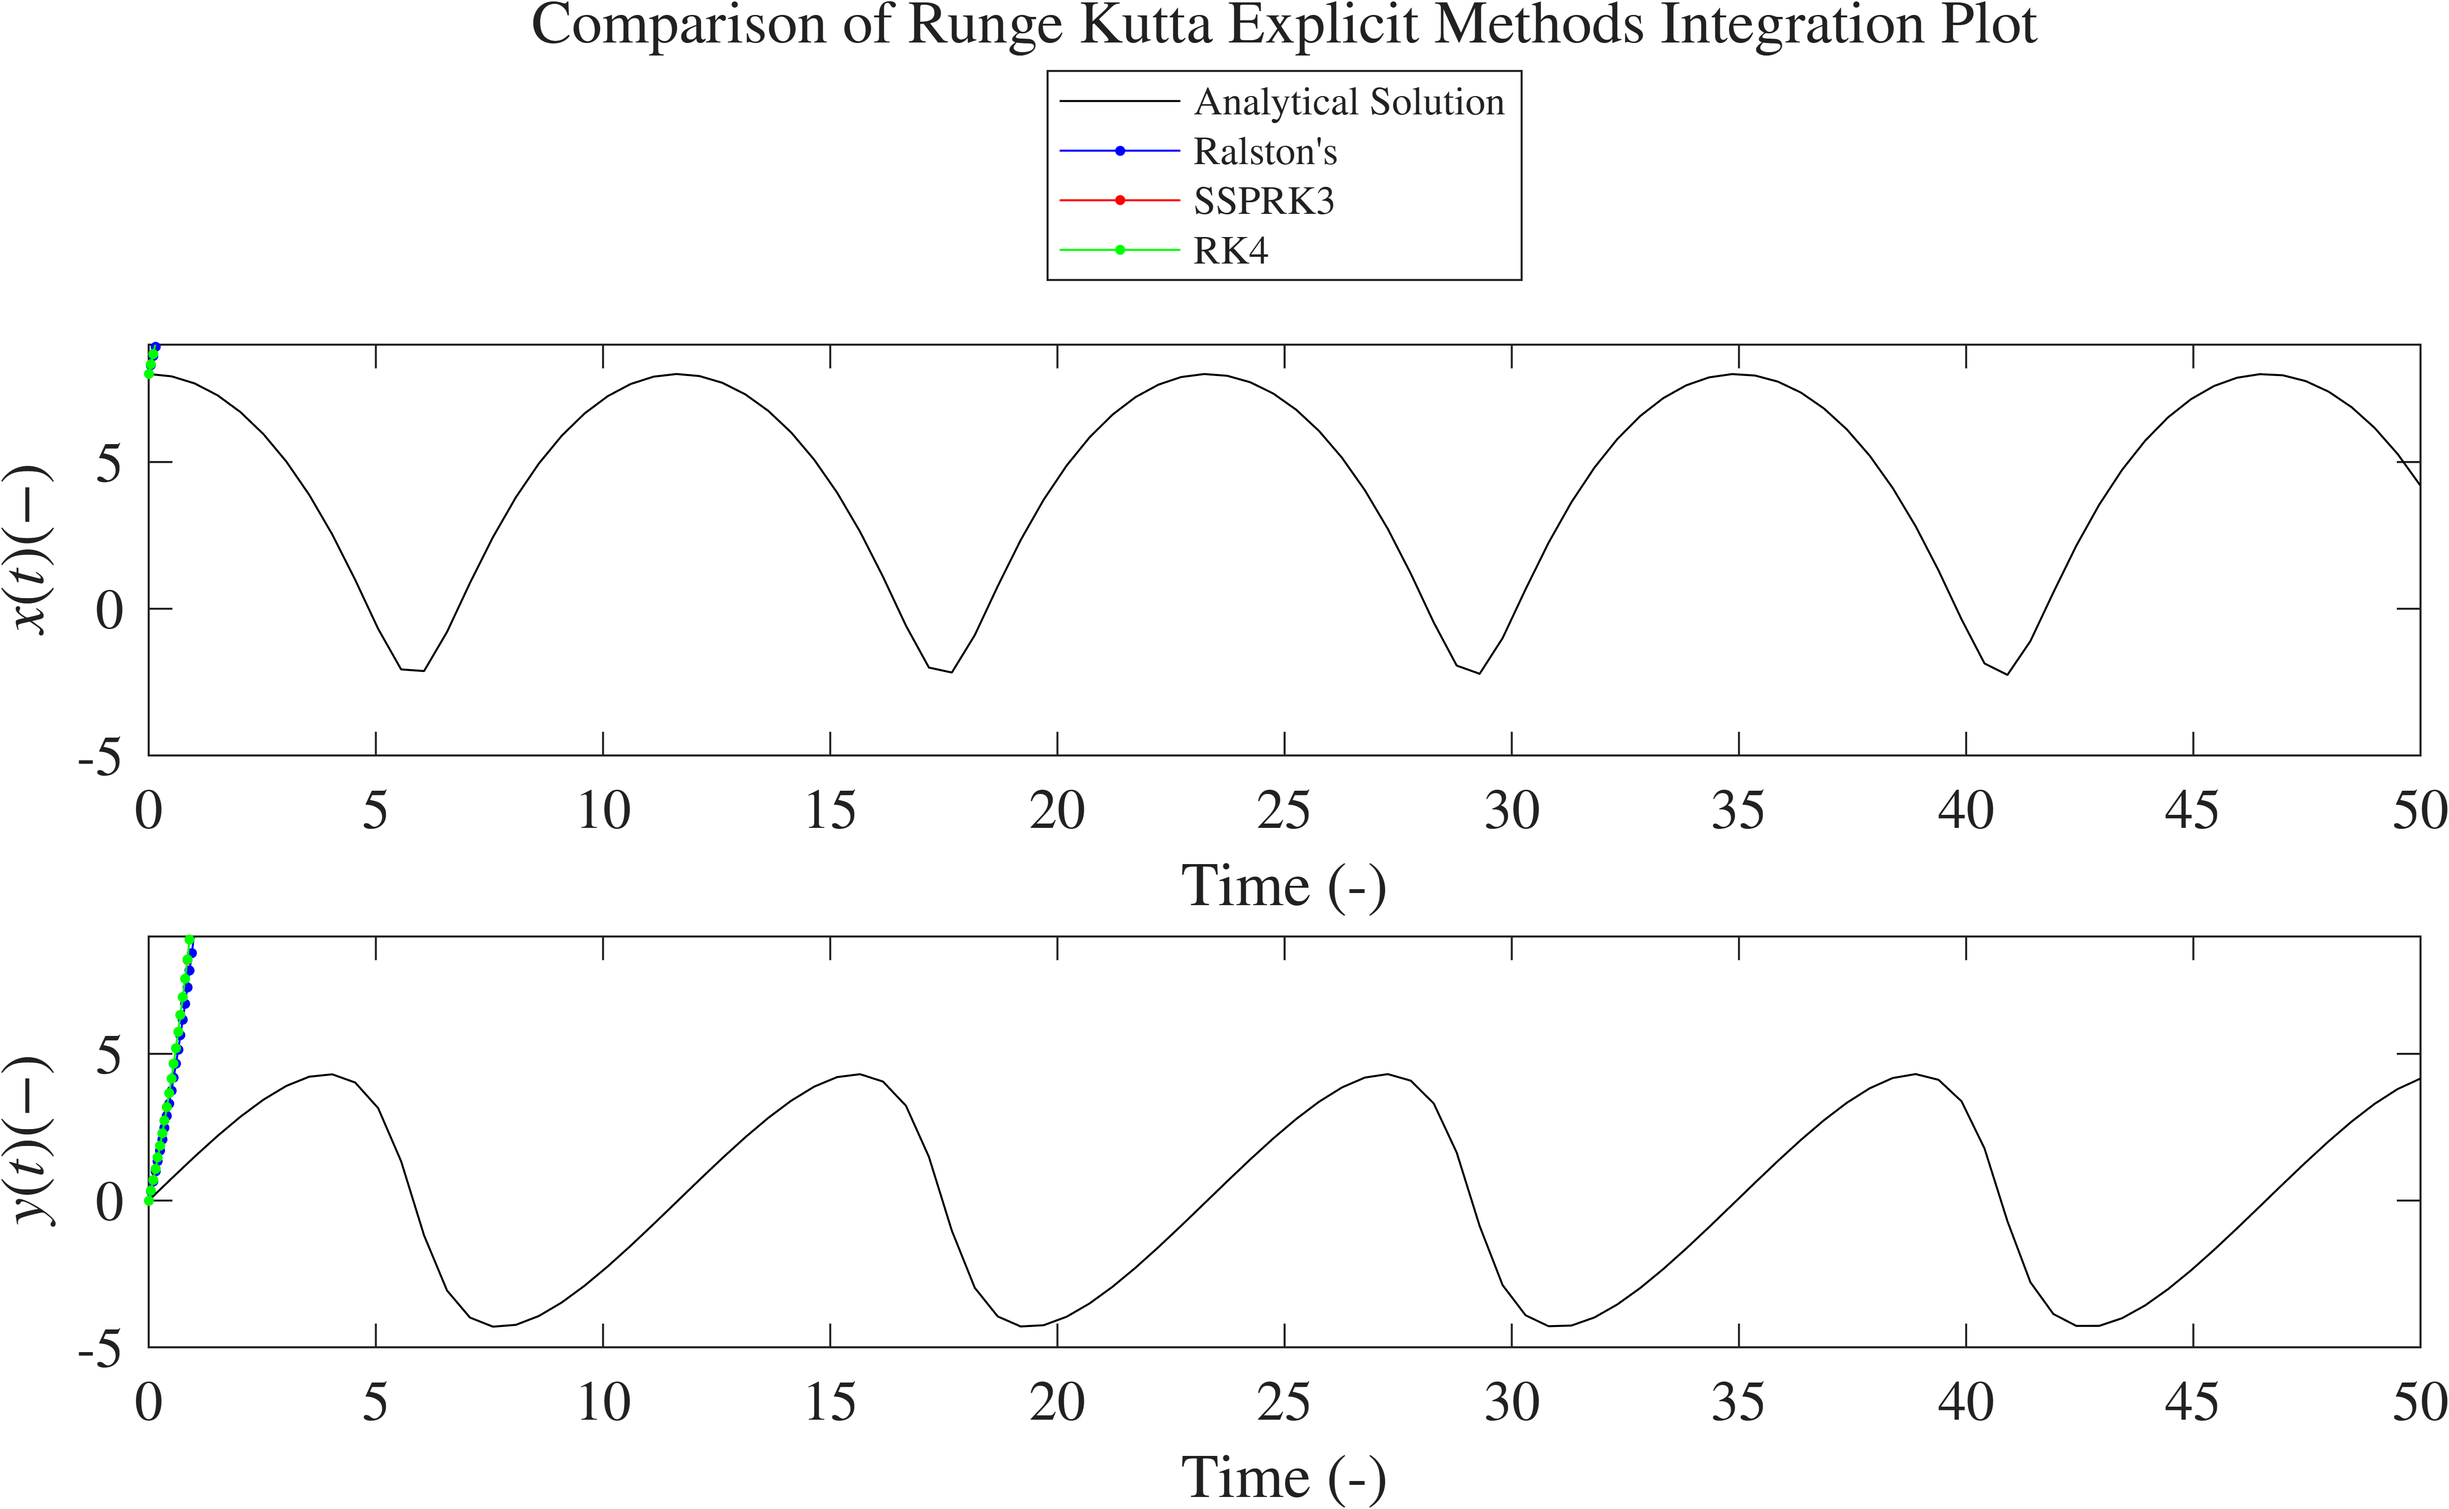
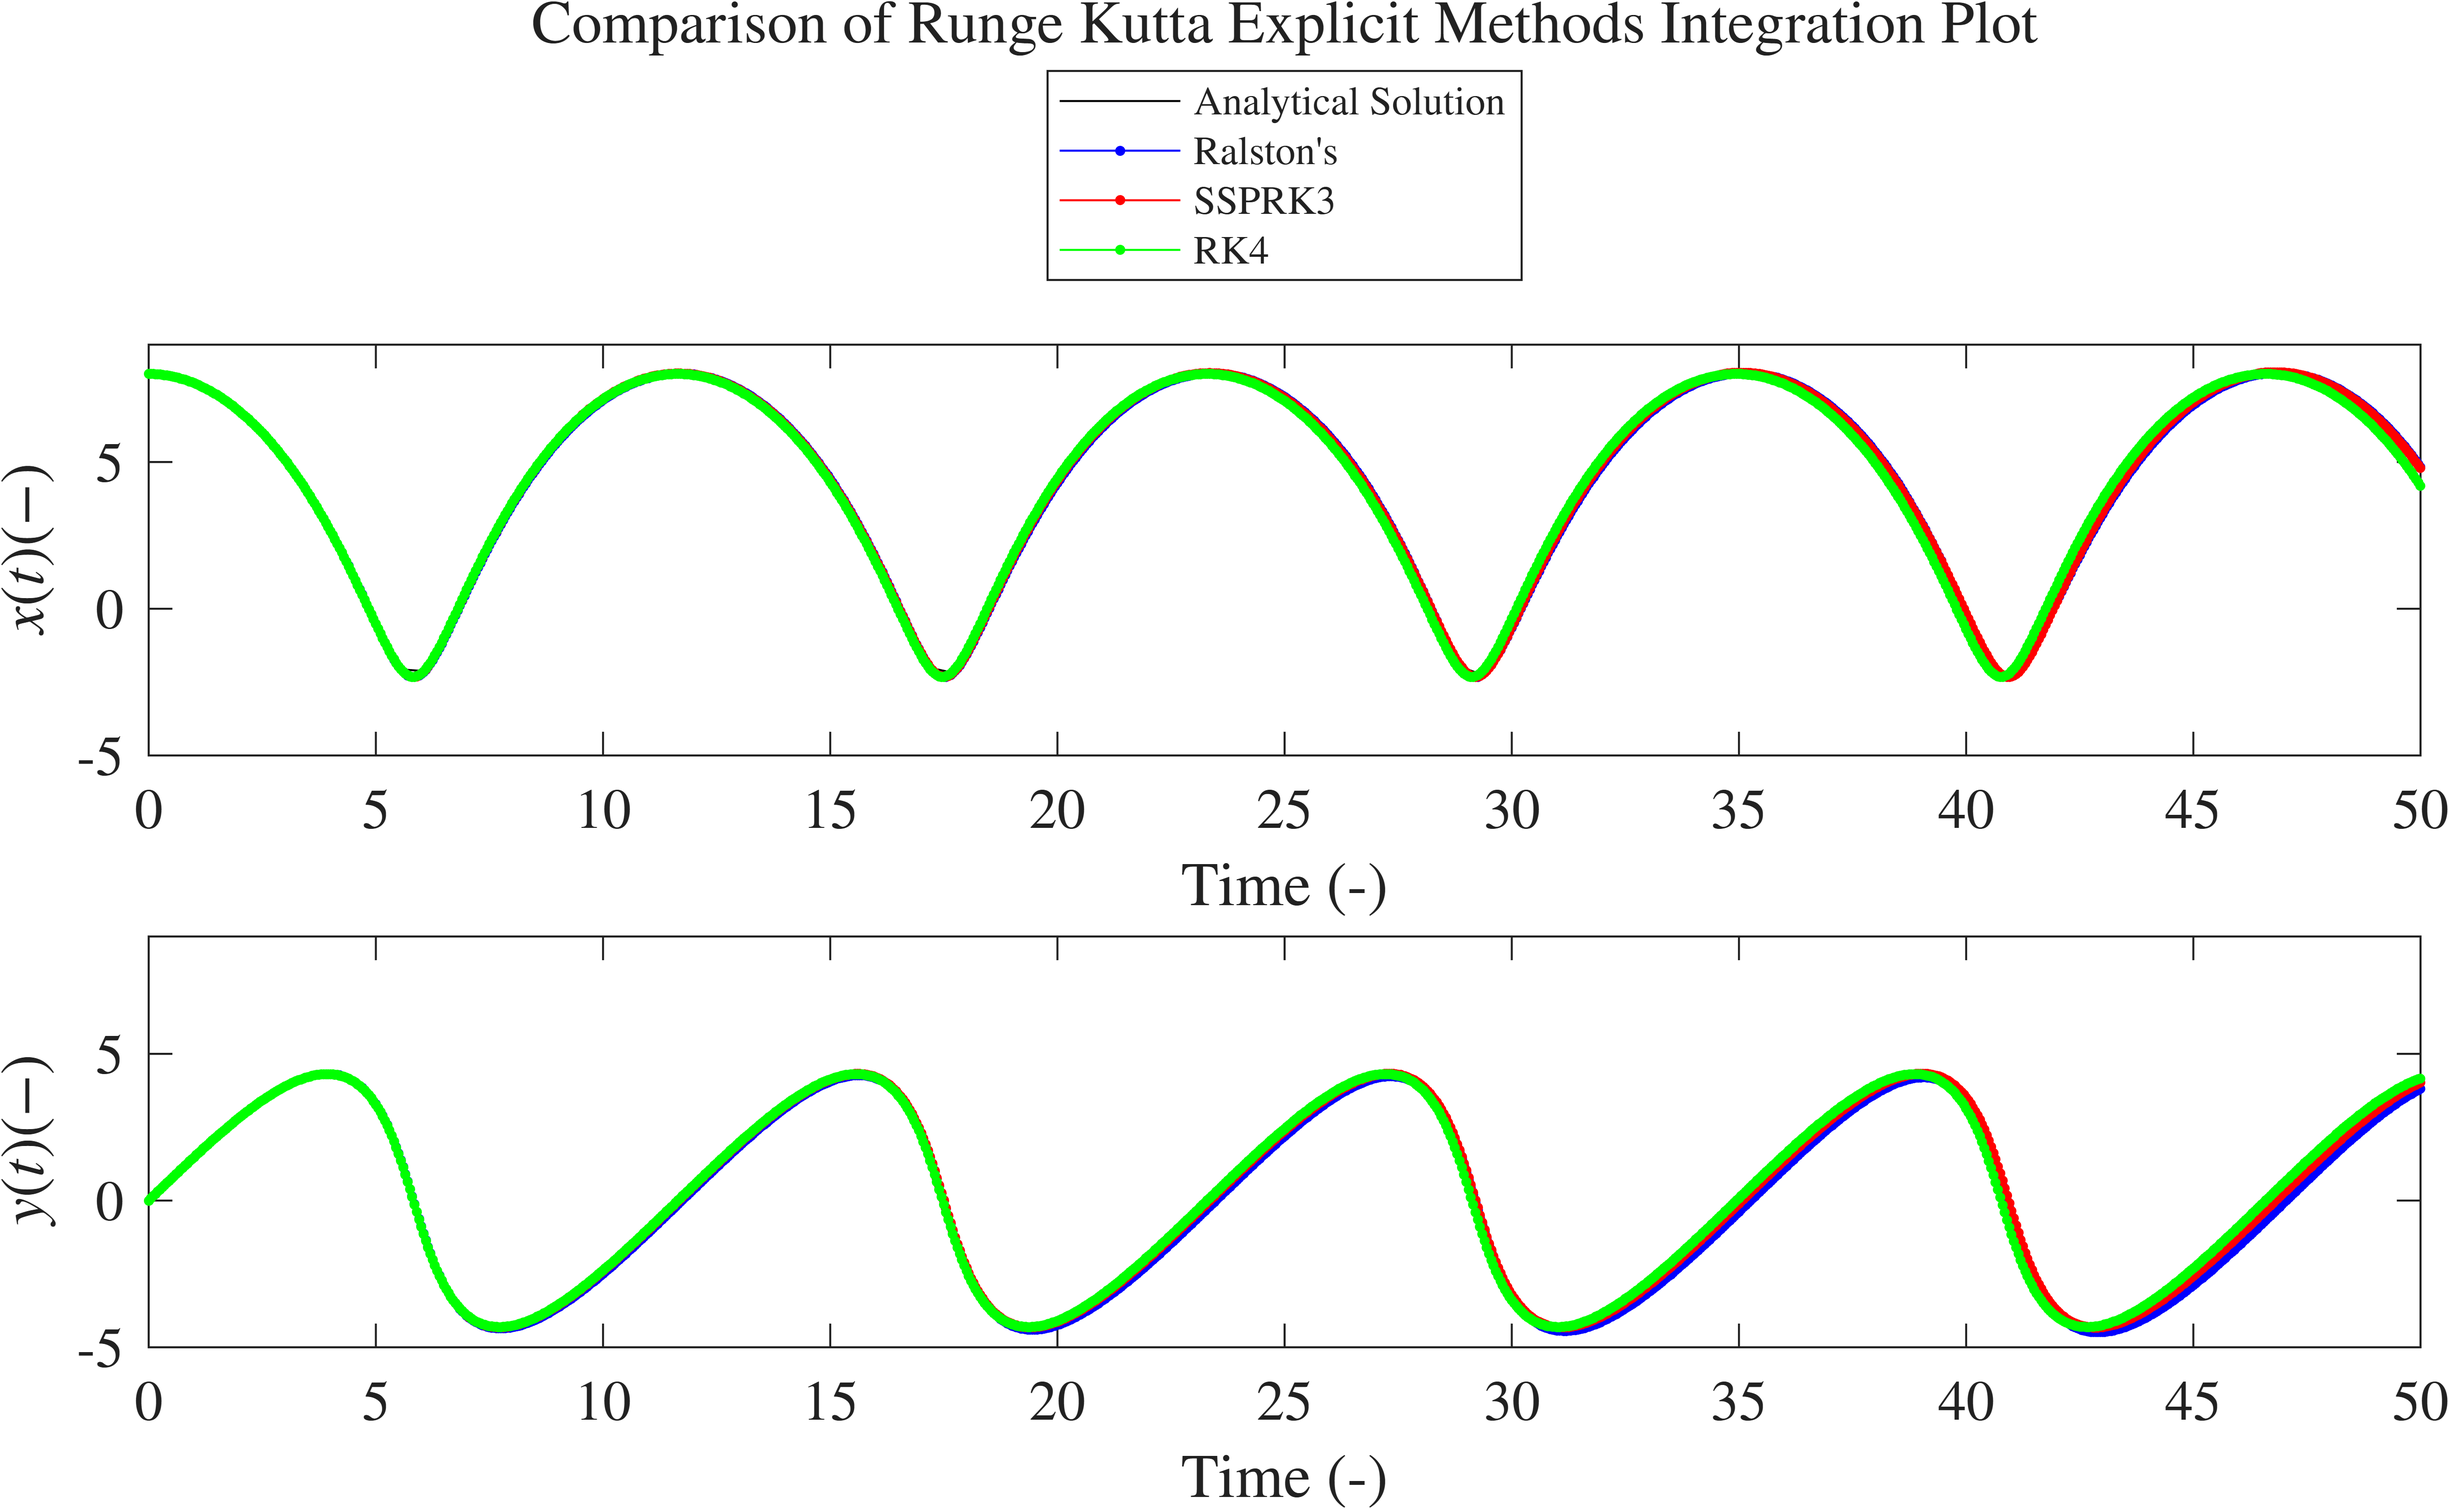
add files

diff --git a/explicit_RK_fixed_step_integration.m b/explicit_RK_fixed_step_integration.m
@@ -24,14 +24,13 @@ function [t_list,X_list,h_avg, num_evals] = explicit_RK_fixed_step_integration .
     t_list = linspace(tspan(1),tspan(2), N+1);
     
     X_list = zeros(length(X0),N+1);
+    X_list(:,1) = X0;
 
-    X_temp = X0;
-    X_list(:,1) = X_temp;
-    
-    for i = 2:length(t_list)
-        t = t_list(i-1);
+    for i = 1:N
+        t = t_list(i);
+        X_temp = X_list(:,i);
         [X_temp, num_evals_temp] = explicit_RK_step(rate_func_in,t,X_temp,h_avg,BT_struct);
-        X_list(:,i) = X_temp;
+        X_list(:,i+1) = X_temp;
         num_evals = num_evals_temp+num_evals;
     end
 end

diff --git a/explicit_RK_step.m b/explicit_RK_step.m
@@ -26,15 +26,13 @@ function [XB, num_evals] = explicit_RK_step(rate_func_in,t,XA,h,BT_struct)
     k = zeros(length(XA),length(b));
    
     k(:,1) = rate_func_in(t,XA);
-
     
     for i = 2:length(b)
         j = i-1;        
         k(:,i) =  rate_func_in(t + c(i)*h, XA+h*k(:,1:j)*(a(i,1:j)'));
         num_evals = num_evals + 1;
     end
-
-    XB = XA+h*b*k';
+    XB = XA+(h*b*k')';
     % 
     % hbk = h*b(1,:)*k;
     % 
